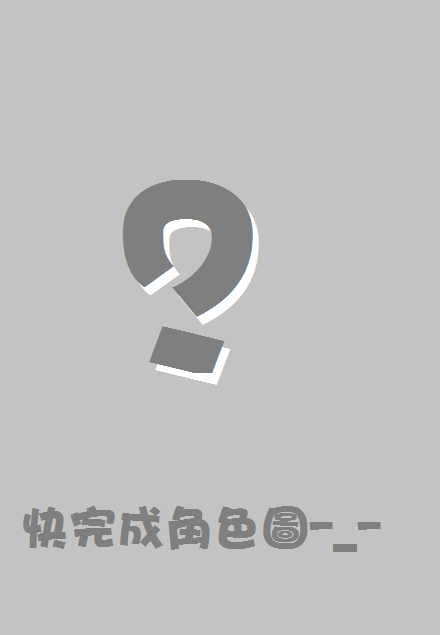
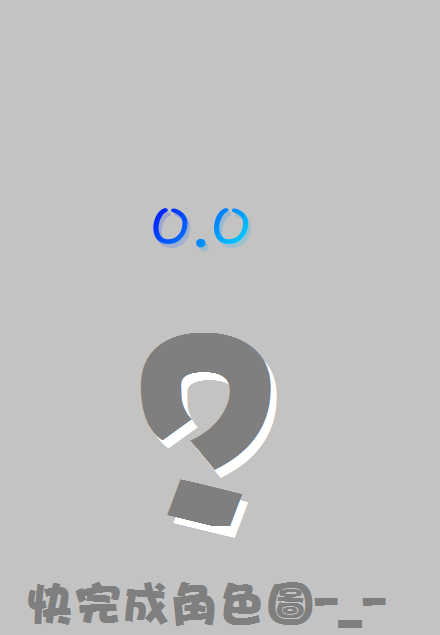
Paint CharLabel to grayscale after pass
當一個角色的回合完結後，相應的CharLabel會變成灰色（這是茶的建議）

更新了一下null.png，方便看清楚是彩色還是黑白

diff --git a/src/Play.java b/src/Play.java
@@ -9,12 +9,15 @@ import java.awt.Graphics;
 import java.awt.GridLayout;
 import java.awt.Image;
 import java.awt.Point;
+import java.awt.Toolkit;
 import java.awt.event.ActionEvent;
 import java.awt.event.ActionListener;
 import java.awt.event.MouseEvent;
 import java.awt.event.MouseListener;
 import java.awt.event.MouseMotionListener;
 import java.awt.image.BufferedImage;
+import java.awt.image.ImageFilter;
+import java.awt.image.ImageProducer;
 import java.awt.image.RescaleOp;
 import java.io.IOException;
 import java.lang.reflect.InvocationTargetException;
@@ -31,6 +34,7 @@ import java.util.Stack;
 import javax.imageio.ImageIO;
 import javax.swing.BorderFactory;
 import javax.swing.BoxLayout;
+import javax.swing.GrayFilter;
 import javax.swing.GroupLayout;
 import javax.swing.ImageIcon;
 import javax.swing.JButton;
@@ -595,6 +599,19 @@ public class Play extends JFrame {
 
 			}
 
+			/**
+			 * Paint a CharLabel to grayscale.
+			 * 
+			 * @param c
+			 *            Character to be painted gray
+			 * @param b
+			 *            pass true to grayscale, false to color
+			 */
+			public void paintCharGray(Character c, boolean b) {
+				int index = c.getPlayer().indexOfChar(c);
+				(c.getPlayer().isPlayer1() ? player1Chars : player2Chars)[index].paintLabelGray(b);
+			}
+
 			public void updateAllLabels() {
 
 				for (int i = 0; i < CHAR_MAX; i++) {
@@ -703,8 +720,13 @@ public class Play extends JFrame {
 
 			private class CharLabel extends JLabel {
 				private Character character = null;
+				
+				private boolean gray = false; // if true, this label will be painted gray
+				
 				// To be drawn in paintComponent()
 				private BufferedImage charImage = null;
+				private BufferedImage charImageGray = null;
+				
 				private Image jobIcon = null;
 				private Image propertyIcon = null;
 				private Image defenseIcon = null;
@@ -749,6 +771,18 @@ public class Play extends JFrame {
 										: academyColor));
 					}
 
+				}
+
+				/**
+				 * Called by paintCharGray(). This will set a boolean variable
+				 * to be true, and allow paintComponent() to paint color or gray
+				 * according to the boolean.
+				 * 
+				 * @param b
+				 */
+				public void paintLabelGray(boolean b) {
+					gray = b;
+					repaint();
 				}
 
 				/**
@@ -858,9 +892,16 @@ public class Play extends JFrame {
 					}
 					// Crop Image
 					charImage = src.getSubimage(120, 185, 300, 100);
-					// Set Filter
+					
+					// Set Filter					
 					RescaleOp rescaleOp = new RescaleOp(0.3f, 182, null);
 					rescaleOp.filter(charImage, charImage);
+					
+					// Set Gray Scale Image
+					charImageGray = new BufferedImage(300, 100, BufferedImage.TYPE_BYTE_GRAY);
+					Graphics gray = charImageGray.getGraphics();
+					gray.drawImage(charImage, 0, 0, null);
+					gray.dispose();
 				}
 
 				/**
@@ -965,7 +1006,7 @@ public class Play extends JFrame {
 					int valuesY = 5;
 
 					// Draw Char Image at back
-					g.drawImage(charImage, 0, 0, null);
+					g.drawImage(gray ? charImageGray : charImage, 0, 0, null);
 
 					// Draw Job Icon at bottom
 					int iconSize = 25;
@@ -1905,10 +1946,17 @@ public class Play extends JFrame {
 				}
 			});
 
-			// Unhighlight the character
+			// Unhighlight the character & Paint it in grayscale
 			displayArea.battleField.highlightChar(currentChar, false);
+			displayArea.battleField.paintCharGray(currentChar, true);
 
 		}
+		
+		// Paint CharLabel back to color
+		for (int i = 0; i < charList.size(); i++) {
+			displayArea.battleField.paintCharGray(charList.get(i), false);
+		}
+
 	}
 
 	private void stageBeforeBattle() throws InterruptedException, InvocationTargetException {
@@ -1952,10 +2000,17 @@ public class Play extends JFrame {
 				}
 			});
 
-			// Unhighlight the character
+			// Unhighlight the character & Paint it in grayscale
 			displayArea.battleField.highlightChar(currentChar, false);
+			displayArea.battleField.paintCharGray(currentChar, true);
 
 		}
+
+		// Paint CharLabel back to color
+		for (int i = 0; i < charList.size(); i++) {
+			displayArea.battleField.paintCharGray(charList.get(i), false);
+		}
+
 	}
 
 	private void stageDuringBattle() throws InterruptedException, InvocationTargetException {
@@ -2011,10 +2066,17 @@ public class Play extends JFrame {
 				}
 			});
 
-			// Unhighlight the character
+			// Unhighlight the character & Paint it in grayscale
 			displayArea.battleField.highlightChar(currentChar, false);
+			displayArea.battleField.paintCharGray(currentChar, true);
 
 		}
+		
+		// Paint CharLabel back to color
+		for (int i = 0; i < charList.size(); i++) {
+			displayArea.battleField.paintCharGray(charList.get(i), false);
+		}
+
 	}
 
 	private void stageAfterBattle() throws InterruptedException, InvocationTargetException {
@@ -2073,10 +2135,17 @@ public class Play extends JFrame {
 				}
 			});
 
-			// Unhighlight the character
+			// Unhighlight the character & Paint it in grayscale
 			displayArea.battleField.highlightChar(currentChar, false);
+			displayArea.battleField.paintCharGray(currentChar, true);
 
 		}
+		
+		// Paint CharLabel back to color
+		for (int i = 0; i < charList.size(); i++) {
+			displayArea.battleField.paintCharGray(charList.get(i), false);
+		}
+
 	}
 
 	private void sortAllChars() {
